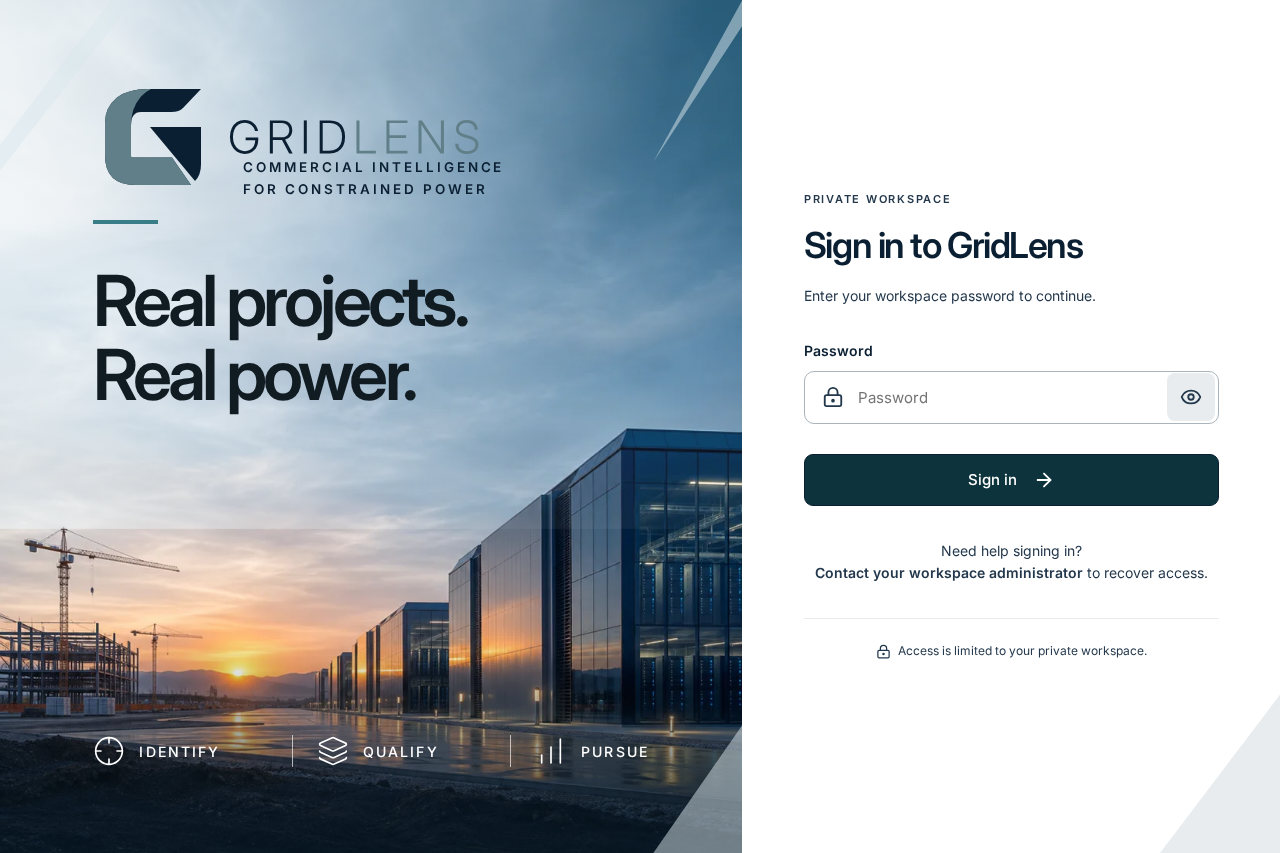
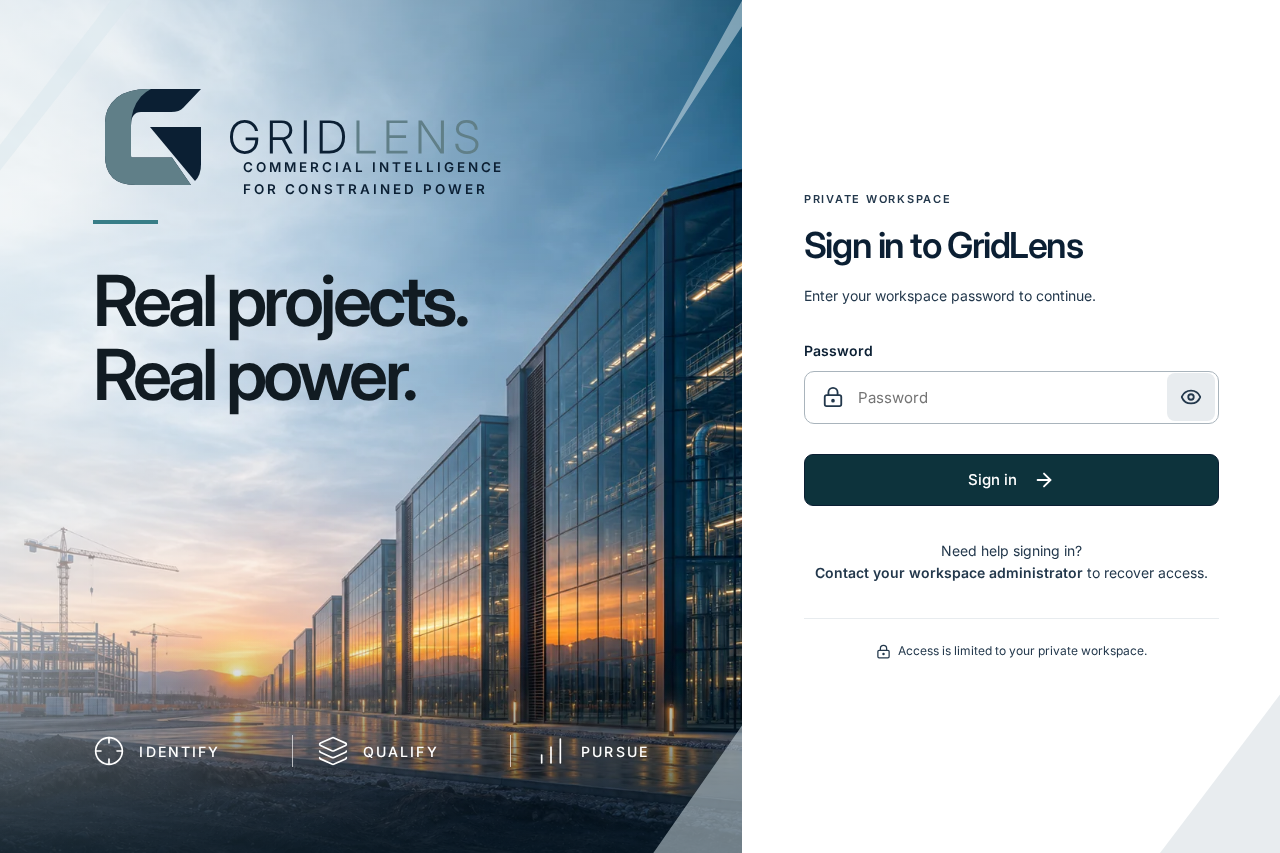
fix: align architectural composition with approved sign-in reference

Changed region(s): [[0.0, 0.1829, 0.5938, 1.0]]

diff --git a/web/src/features/auth/login.css b/web/src/features/auth/login.css
@@ -2,7 +2,7 @@
 .login-story{position:relative;min-width:0;overflow:hidden;background:var(--gl-fog)}
 .login-architecture{position:absolute;inset:0;pointer-events:none}
 .login-architecture img{width:100%;height:100%;object-fit:cover;object-position:center}
-.login-story:before{content:"";position:absolute;inset:0;background:linear-gradient(110deg,rgba(240,245,247,.82),rgba(240,245,247,.05) 75%) 0 0/100% 62% no-repeat,linear-gradient(0deg,rgba(6,22,33,.85),transparent 25%);z-index:1;pointer-events:none}
+.login-story:before{content:"";position:absolute;inset:0;background:linear-gradient(0deg,rgba(6,22,33,.85),transparent 25%),linear-gradient(110deg,rgba(240,245,247,.82),rgba(240,245,247,0) 75%);z-index:1;pointer-events:none}
 .login-story:after{content:"";position:absolute;inset:0;z-index:1;pointer-events:none;background:rgba(218,232,237,.5);clip-path:polygon(0 0,18% 0,0 20%,0 17%,15% 0,100% 0,100% 3%,88% 19%,100% 0,100% 85%,88% 100%,100% 100%,100% 88%,91% 100%,100% 100%,100% 0)}
 .login-story-content{position:relative;z-index:2;display:flex;flex-direction:column;min-height:100%;padding:clamp(40px,6vw,88px) clamp(28px,7.3vw,108px) clamp(36px,6.7vw,96px)}
 .login-story-logo{display:block;width:100%;max-width:500px;height:auto}

diff --git a/docs/delivery/sign-in/verification.md b/docs/delivery/sign-in/verification.md
@@ -9,7 +9,7 @@ Current-base completed checks:
 - `npm run build --prefix web` — passed; existing application bundle exceeds Vite's 500 KB advisory threshold (534.46 KB uncompressed / 152.17 KB gzip).
 - `npm audit --prefix web --audit-level=high` — zero vulnerabilities.
 - Locked backend `pip-audit==2.10.1` — no known vulnerabilities.
-- `uv run alembic upgrade head` / `uv run alembic check` — passed on task-owned disposable database through schema0056; no schema drift.
+- `uv run alembic upgrade head` / `uv run alembic check` — passed on task-owned disposable database through schema 0056; no schema drift.
 - `uv run ruff check src tests` — passed.
 - `uv run ruff format --check src tests` — 585 files already formatted.
 - Astra independent `npm run typecheck` and login suite — 14 passed; see independent-review.md.
@@ -21,6 +21,23 @@ Current-base completed checks:
 
 Full-suite/acceptance outcomes and current-head CI status are recorded in [PR194](https://github.com/nrsandoval1231-oss/gl3/pull/194), which is the final delivery receipt. A scoped pass does not imply those wider suites passed. The PR remains draft; no merge or deployment is authorized.
 
-Local execution uses a fresh loopback-only PostgreSQL 17.11 cluster on port5543 with separate task-owned app/test databases. CI uses PostgreSQL18.6 and remains the exact-version gate. No retained or production data or external paid providers are used. `scripts/check.ps1` cannot run directly because PowerShell is unavailable; equivalent checks are executed individually. Operational live-source acceptance is not established by these isolated tests.
+Local execution uses a fresh loopback-only PostgreSQL 17.11 cluster on port 5543 with separate task-owned app/test databases. CI uses PostgreSQL 18.6 and remains the exact-version gate. No retained or production data or external paid providers are used. `scripts/check.ps1` cannot run directly because PowerShell is unavailable; equivalent checks are executed individually. Operational live-source acceptance is not established by these isolated tests.
 
-Superseded: initial runs on stale checkout `d54646` were interrupted after discovering current main. They are not current-candidate evidence. That baseline had backend failures and an old pypdf advisory; current main updates pypdf to6.21.4 and its dependency audit is clean. One old-baseline frontend pending-request logout race passed in isolation; current-base full regression supersedes that result.
+Superseded: initial runs on stale checkout `d54646` were interrupted after discovering current main. They are not current-candidate evidence. That baseline had backend failures and an old pypdf advisory; current main updates pypdf to 6.21.4 and its dependency audit is clean. One old-baseline frontend pending-request logout race passed in isolation; current-base full regression supersedes that result.
+
+## Full CI receipt before final decorative polish
+
+[CI run 43103472805](https://github.com/nrsandoval1231-oss/gl3/actions/runs/43103472805), exact head `d0887f90a683dbaf6f12c1a33fef6bc2071d4ebe`, passed every job on PostgreSQL 18.6:
+- Backend: **5,350 passed, 1 skipped**, 632.05 seconds.
+- Browser regressions including real authentication: **335 passed**, 2.7 minutes, no retries/flaky count reported.
+- Seeder safety: **32 passed**.
+- Real rollup acceptance: **3 passed**.
+- Persisted Pursuits acceptance: **1 passed**.
+- Phase 2 brief acceptance: **1 passed**.
+- Web build/typecheck/audit, backend lint/types/migrations/audits and brand-assets jobs: passed.
+
+Only the decorative photo and its gradient wash changed afterward; final primary login verification passed **14/14**, 19.2 seconds, and Astra approved the final fresh captures. Final-head CI status is linked from PR194 rather than inferred from this earlier run.
+
+Local wider results differ from CI and remain disclosed: frontend regression **334 passed, 1 failed** (`project_results.spec.ts` — mounted account project details and contacts disappear at their independent generation expiry). The same test fails on an untouched export of `f2a4a805`. Local persisted Pursuits timed out in the repeated Companies search loop; its baseline attempt failed at an earlier Add-to-Pursuit assertion, so the exact timeout is not claimed reproduced. Both journeys pass in the full CI run above. Local real rollup **3 passed**; local Phase 2 brief **1 passed**. The complete local backend outcome is recorded in the PR delivery receipt; no backend source changed in this PR.
+
+Browser-rendered final 1280px initial sign-in check: logo and background decoded, no horizontal overflow, no console errors. This is separate from intentional network/credential errors exercised by the automated suite.

diff --git a/docs/delivery/sign-in/visual-review.md b/docs/delivery/sign-in/visual-review.md
@@ -6,12 +6,12 @@ The implementing agent viewed the conversation image and rendered captures. The 
 
 Surfaces checked:
 - Typography: existing local Inter, restrained tracking/weights, large two-line left headline, readable form labels and mobile hierarchy. The brief explicitly requests “Real projects. Real power.” rather than the image's different headline.
-- Layout: desktop58/42 split, branding/accent near left top, architectural construction at sunrise, footer at image bottom, clean white form panel; tablet48/52 with vertical footer; compact mobile branding and form, natural vertical scrolling at320. No horizontal overflow in browser tests.
+- Layout: desktop 58/42 split, branding/accent near left top, architectural construction at sunrise, footer at image bottom, clean white form panel; tablet 48/52 with vertical footer; compact mobile branding and form, natural vertical scrolling at 320. No horizontal overflow in browser tests.
 - Colors: existing navy/slate/fog/white tokens, teal accent/action, visible focus and error styling. Decorative architectural mask is separated from content.
 - Assets: unchanged approved repository SVG (intentional difference from mockup's metallic logo), optimized WebP background with the same architectural art direction; real library icons. The approved mockup is not stretched into a background.
 - Copy/content: full tagline, requested headline and Identify/Qualify/Pursue. Shared-password control and administrator recovery guidance reflect the owner's explicit access-policy decision. OAuth, email account identity and public signup omitted because unsupported.
 - Controls: explicit label, keyboard order, reveal/hide, required validation, pending state, safe errors, focus recovery and repeat-submit protection tested.
 
-Iteration history: removed duplicated tagline from the initial primary-logo asset by using the unchanged horizontal logo; tightened tagline placement in logo whitespace; changed inner input outline to a complete field focus ring. Fresh captures and Astra's14-case rerun verify the revised layout.
+Iteration history: removed duplicated tagline from the initial primary-logo asset by using the unchanged horizontal logo; tightened tagline placement in logo whitespace; changed inner input outline to a complete field focus ring. Raised the close glass facade to approximately the upper 20% of the desktop image to match the source composition; replaced a clipped light wash with a full-canvas fade to remove its horizontal seam. Fresh captures and the 14-case rerun verify the final layout; Astra independently inspected it again.
 
 Residual: exact source-photo match and metallic rendering are not claimed. The source artwork file and an explicit resolution of screenshot-versus-brief headline differences would be needed for a strict pixel-match acceptance gate. The delivered layout implements the requested adapted scope; owner visual acceptance remains reviewable in the draft PR.

diff --git a/docs/delivery/sign-in/assets.md b/docs/delivery/sign-in/assets.md
@@ -3,5 +3,5 @@
 - Logo: existing `/brand/logos/horizontal-light.svg`, unchanged. Its approved two-tone vector rendering takes precedence over the metallic treatment in the mockup.
 - Fonts: existing local Inter and Sora files; no new font dependencies or third-party requests.
 - Icons: existing `lucide-react` dependency.
-- `web/public/ui/sign-in/architecture.webp`: generated architectural background (960 × 1200, 84 KB) depicting glass data centers under construction at sunrise. Generated specifically for this interface; not a photograph of an identified real project. Re-encoded as WebP at quality 83. Decorative, empty alternative text. A media-selected picture source avoids requesting it at phone widths; tested in Chromium.
+- `web/public/ui/sign-in/architecture.webp`: generated architectural background (960 × 1200, 120,778 bytes (approximately 121 KB)) depicting glass data centers under construction at sunrise. Generated specifically for this interface; not a photograph of an identified real project. Re-encoded as WebP at quality 83. Decorative, empty alternative text. A media-selected picture source avoids requesting it at phone widths; tested in Chromium.
 - Geometric treatments and all text/controls: React/CSS. No stretched screenshot, embedded sign-in UI image, remote stock image dependency or regenerated logo.

diff --git a/docs/delivery/sign-in/independent-review.md b/docs/delivery/sign-in/independent-review.md
@@ -32,3 +32,10 @@ Current-base independent checks:
 - Fresh 1280/768/390/320 captures inspected — no responsive regressions.
 
 Astra also reviewed four additional acceptance/regression test files: only login selectors changed, preserving existing assertions. The requested tagline is documented as a sign-in-specific exception to the canon's broader product-facing UI wording. **Current-main scoped result: PASS**, subject to exact full-suite outcomes. The original-attachment limitation above still applies.
+
+## Final image and overlay review
+
+The implementing agent identified the reference's taller near glass facade and revised only the decorative WebP. Astra inspected fresh 1280/1440/768/390 captures, accepted the improved composition and identified a faint horizontal wash cutoff. The cutoff was removed; Astra's final re-review of 1280/1440/768 confirmed no seam and readable branding/headline/footer. **Final visual result: PASS, no new findings.** The final primary login suite passed 14/14 in 19.2 seconds. React and authentication logic remain unchanged.
+
[2 lines of base64/hex data omitted]
